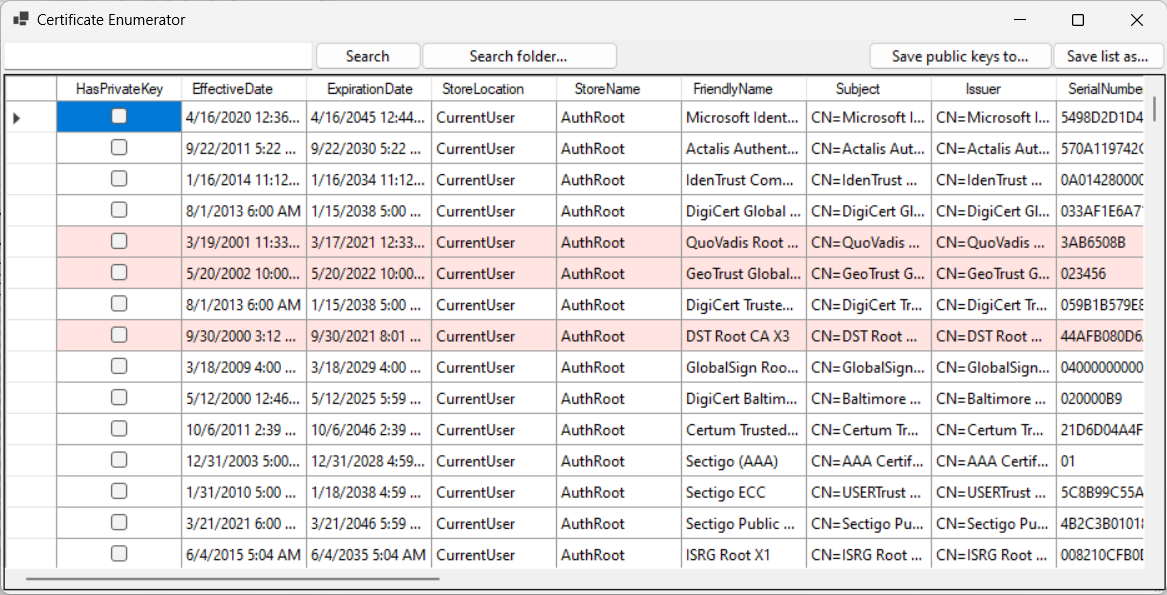
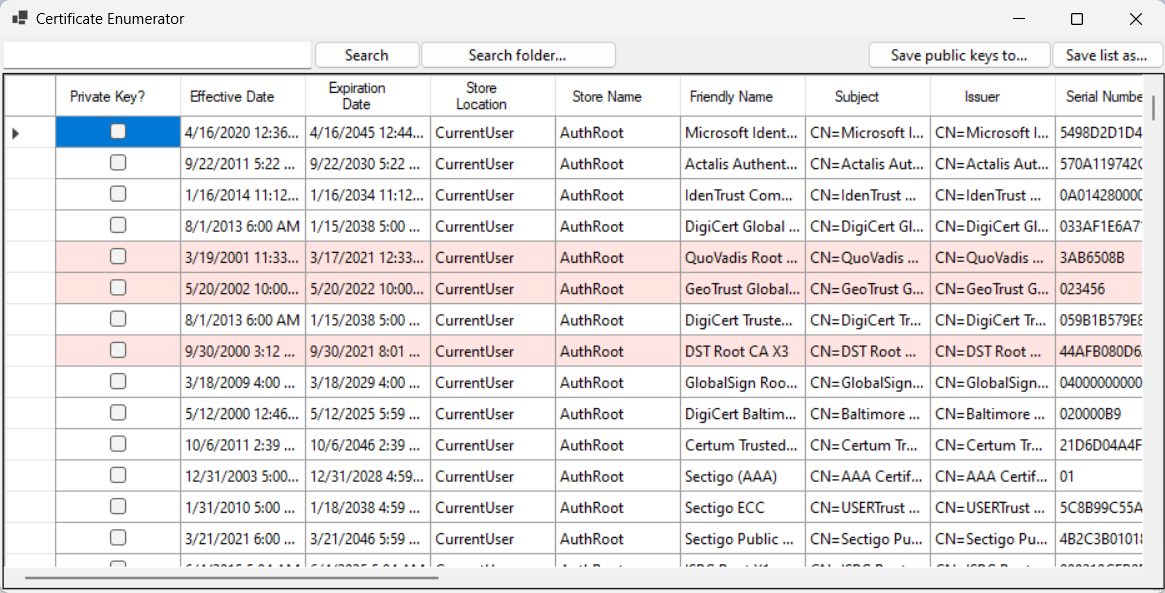
Update Column Display names, screenshots

diff --git a/CertificateEnumerator/CertificateStore/CertificateStoreView.cs b/CertificateEnumerator/CertificateStore/CertificateStoreView.cs
@@ -191,6 +191,22 @@ namespace CertificateManagement
             dataGridViewCertificates.Columns["IsChainVerified"].SortMode = DataGridViewColumnSortMode.Automatic;
             dataGridViewCertificates.Columns["HasPrivateKey"].SortMode = DataGridViewColumnSortMode.Automatic;
 
+            dataGridViewCertificates.Columns["HasPrivateKey"].HeaderText = "Private Key?";
+            dataGridViewCertificates.Columns["EffectiveDate"].HeaderText = "Effective Date";
+            dataGridViewCertificates.Columns["ExpirationDate"].HeaderText = "Expiration Date";
+            dataGridViewCertificates.Columns["StoreLocation"].HeaderText = "Store Location";
+            dataGridViewCertificates.Columns["StoreName"].HeaderText = "Store Name";
+            dataGridViewCertificates.Columns["FriendlyName"].HeaderText = "Friendly Name";
+            dataGridViewCertificates.Columns["SerialNumber"].HeaderText = "Serial Number";
+            dataGridViewCertificates.Columns["KeyAlgorithm"].HeaderText = "Key Algorithm";
+            dataGridViewCertificates.Columns["SignatureAlgorithm"].HeaderText = "Signature Algorithm";
+            dataGridViewCertificates.Columns["PublicKeyType"].HeaderText = "Key Type";
+            dataGridViewCertificates.Columns["PublicKeySize"].HeaderText = "Key Size";
+            dataGridViewCertificates.Columns["IsChainVerified"].HeaderText = "Is Verified?";
+            dataGridViewCertificates.Columns["ChainRevokedStatusInformation"].HeaderText = "Revoked Reason";
+            dataGridViewCertificates.Columns["ChainVerificationTime"].HeaderText = "Verification Time";
+            dataGridViewCertificates.Columns["ChainLength"].HeaderText = "Chain Length";
+
             HighlightExpiredCertificateCells();
         }
 
